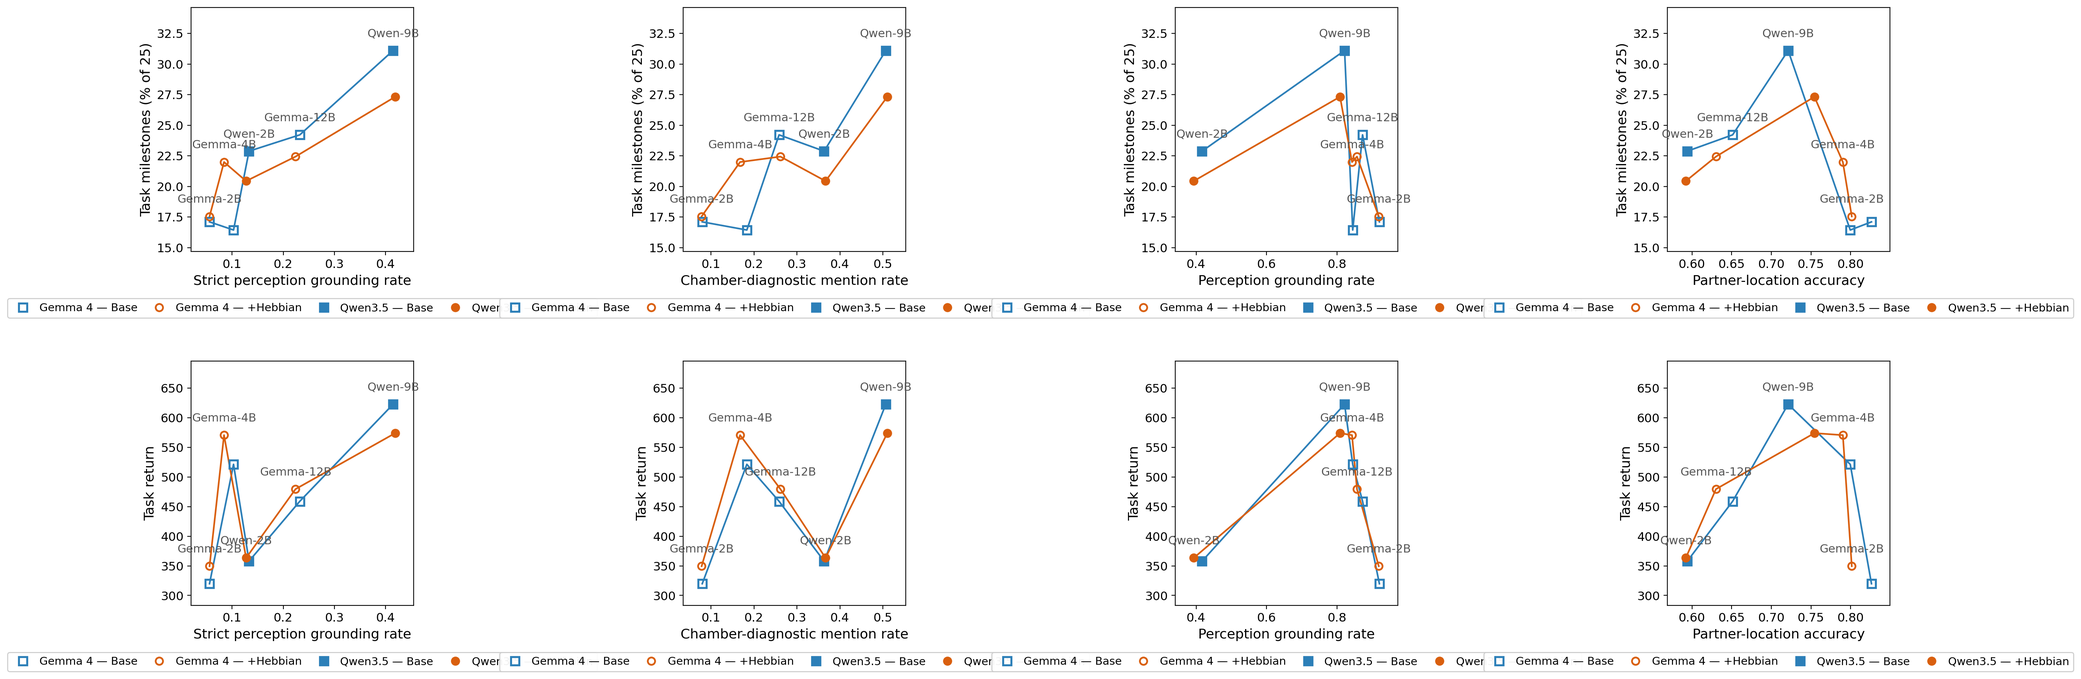
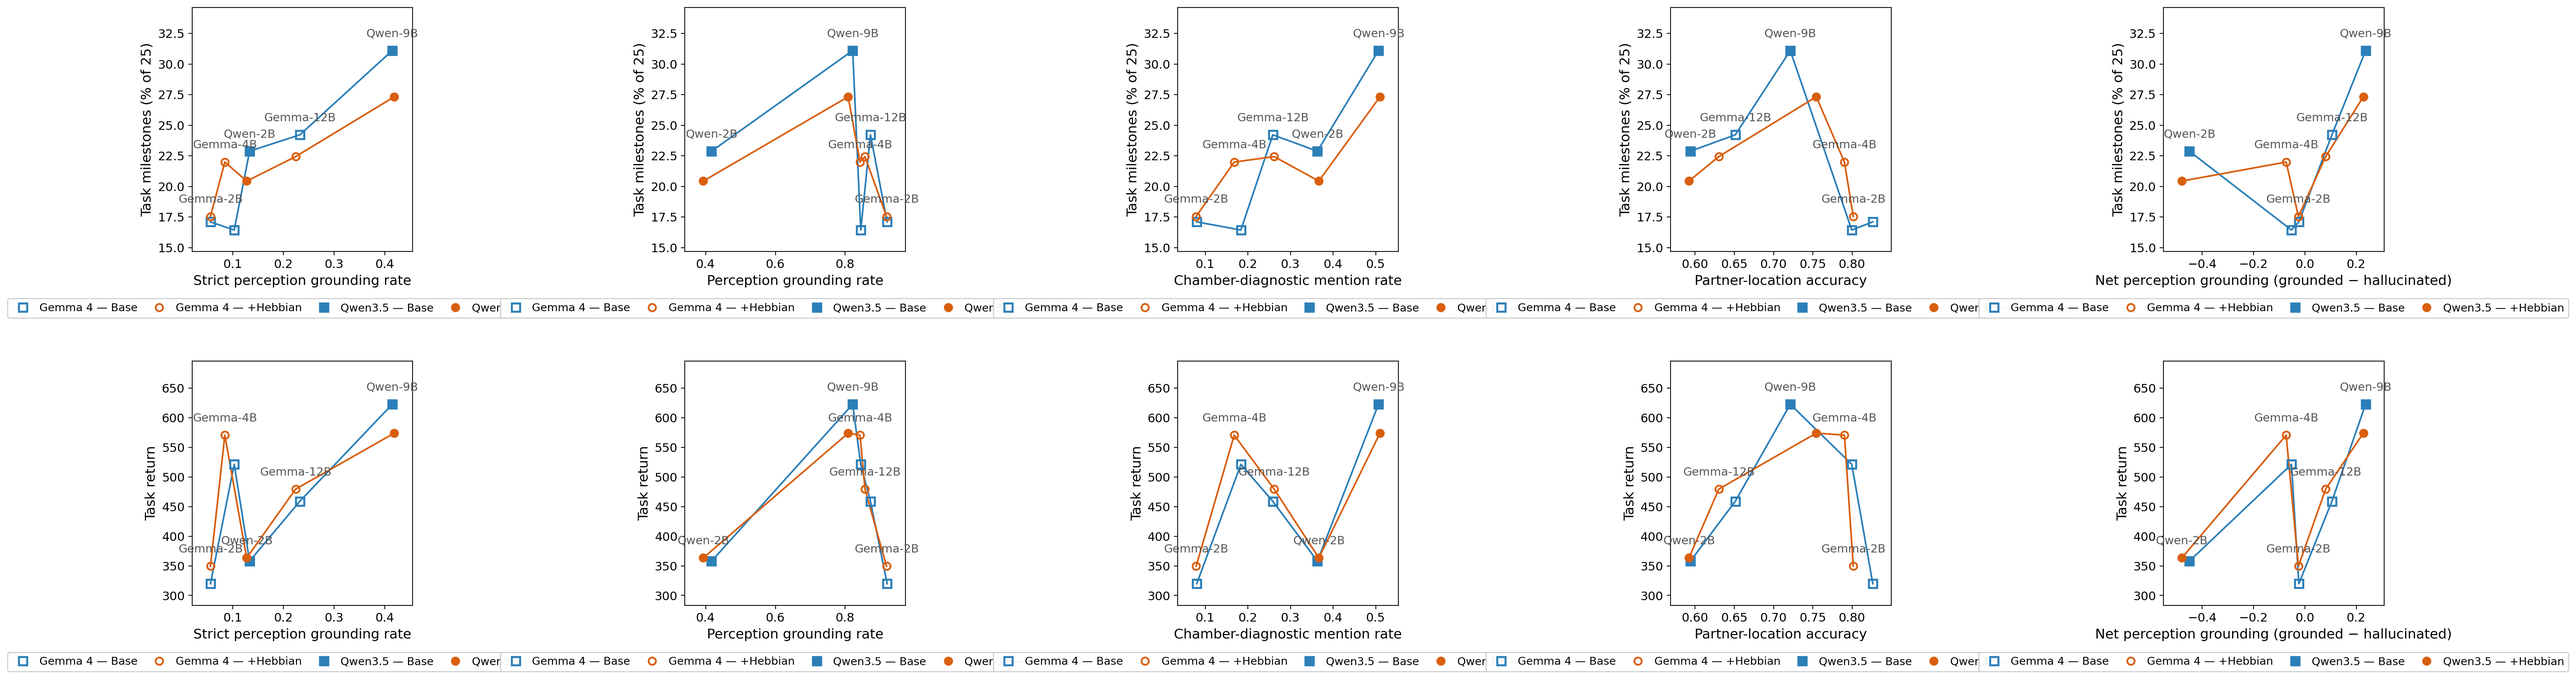
Net perception grounding: the parameter-free combination of the three shares
The wrong / strict-grounded / vague split sums to 1, so any linear weighting
of it collapses to strict - lambda * wrong. This adds the lambda = 1 member,
perception_net_grounding = strict - hallucination, to beliefs_metrics.py and
as a y-metric / x-axis (net_grounding) in make_pareto_grid.py, and regenerates
the five-model perception-x set with a fifth frontier on it.

It is a robustness check beside strict, not a replacement: Qwen-9B > Gemma-12B
and Qwen-2B-last hold for every lambda, but Gemma-2B vs 4B flips at
lambda ~ 0.63 (4B is both more grounded and more hallucinating) and is within
noise at lambda = 1, so a tuned lambda would decide exactly the comparison the
axis is asked to settle. Only 12B and Qwen-9B are net-positive.

Also: the grid's --beliefs default now includes the medium-runs beliefs.csv.
Without it the Qwen points vanished from every perception axis with no
warning (empty belief columns); the skill records both.

diff --git a/scripts/make_pareto_grid.py b/scripts/make_pareto_grid.py
@@ -108,12 +108,14 @@ Y_METRICS = {
     "grounding":        "Perception grounding rate",
     "grounding_strict": "Strict perception grounding rate",
     "specificity":      "Chamber-diagnostic mention rate",
+    "net_grounding":    "Net perception grounding (grounded − hallucinated)",
 }
 X_AXES = {
     "flops":            "Compute  [$10^{17}$ FLOPs]",
     "grounding":        "Perception grounding rate",
     "grounding_strict": "Strict perception grounding rate",
     "specificity":      "Chamber-diagnostic mention rate",
+    "net_grounding":    "Net perception grounding (grounded − hallucinated)",
     "partner_loc":      "Partner-location accuracy",
 }
 # Perception axes come from the QUALITATIVE pipeline's beliefs.csv (one row
@@ -124,6 +126,7 @@ X_AXES = {
 BELIEF_COLS = {"grounding": "perception_grounding_rate",
                "grounding_strict": "perception_grounding_strict",
                "specificity": "perception_specificity",
+               "net_grounding": "perception_net_grounding",
                "partner_loc": "partner_loc_accuracy"}
 # Aesthetics: identical to make_pareto_social_fig.fig_pareto_paper (the
 # social-interval frontier), which is itself styled after the compute-vs-reward
@@ -397,7 +400,11 @@ def main():
     ap.add_argument("--out-dir", type=Path, default=Path("paper_assets_pareto/grid"))
     ap.add_argument("--beliefs", type=Path, nargs="+",
                     default=[Path("analysis_qualitative/out_gemma/tables/beliefs.csv"),
-                             Path("analysis_qualitative/out_pareto/tables/beliefs.csv")],
+                             Path("analysis_qualitative/out_pareto/tables/beliefs.csv"),
+                             # medium runs: the Qwen belief values. Without
+                             # this the Qwen points silently vanish from every
+                             # perception axis (empty belief columns).
+                             Path("analysis_qualitative/out/tables/beliefs.csv")],
                     help="qualitative-pipeline beliefs.csv files (one row per "
                          "run) supplying the perception axes")
     ap.add_argument("--families", default="gemma",

diff --git a/analysis_qualitative/qual_lib/beliefs_metrics.py b/analysis_qualitative/qual_lib/beliefs_metrics.py
@@ -142,6 +142,12 @@ def analyze_run(ctx) -> dict:
         "perception_grounding_rate": _rate(grounded, n_percep),
         "perception_grounding_strict": _rate(strict_grounded, n_percep),
         "perception_specificity": _rate(diagnostic, n_percep),
+        # NET grounding = strict - hallucination: +1 per grounded-and-diagnostic
+        # statement, -1 per statement naming an impossible object, 0 for vague.
+        # The parameter-free (lambda = 1) member of the family
+        # strict - lambda * wrong; reported as a robustness check beside strict
+        # (lambda = 0), never blended with a tuned lambda.
+        "perception_net_grounding": _rate(strict_grounded - len(halluc_rows), n_percep),
         "partner_loc_claims": loc_claims,
         "partner_loc_accuracy": _rate(loc_correct, loc_claims),
         "belief_responsiveness": _rate(resp_hit, resp_checked),

diff --git a/.claude/skills/pareto-plots/SKILL.md b/.claude/skills/pareto-plots/SKILL.md
@@ -96,7 +96,17 @@ Verified 2026-08-28: the pareto table reproduces
   --ys grounding_strict,specificity,grounding --xs flops`.
 - Perception-as-X pareto (the thesis's original framing, x=perception,
   y=performance): `--out-dir .../grid_perception_x --ys milestone_pct,reward
-  --xs grounding_strict,specificity,grounding,partner_loc`. THE pareto is
+  --xs grounding_strict,specificity,grounding,partner_loc,net_grounding`.
+  `net_grounding` = strict − hallucination (perception_net_grounding in
+  beliefs.csv): the parameter-free (λ=1) member of `strict − λ·wrong`, the
+  ONLY family any weighting of the wrong/strict/vague shares can produce
+  (they sum to 1). Report it as a robustness check beside strict, never a
+  tuned λ: Qwen-9B > 12B and Qwen-2B-last hold for every λ, but Gemma-2B vs
+  4B flips at λ≈0.63 (4B is both more grounded and more hallucinating) and
+  is within noise at λ=1 — a chosen λ would decide exactly that comparison.
+  `--beliefs` MUST list all three CSVs (out_gemma, out_pareto, out) — the
+  default now does; with the medium-runs one missing the Qwen points vanish
+  from every perception axis with no warning. THE pareto is
   `milestone_pct vs grounding_strict` (both arms rise left-to-right;
   specificity is its robustness twin). The permissive-grounding and
   partner_loc x-axes produce inverted/garbled frontiers — the earlier
